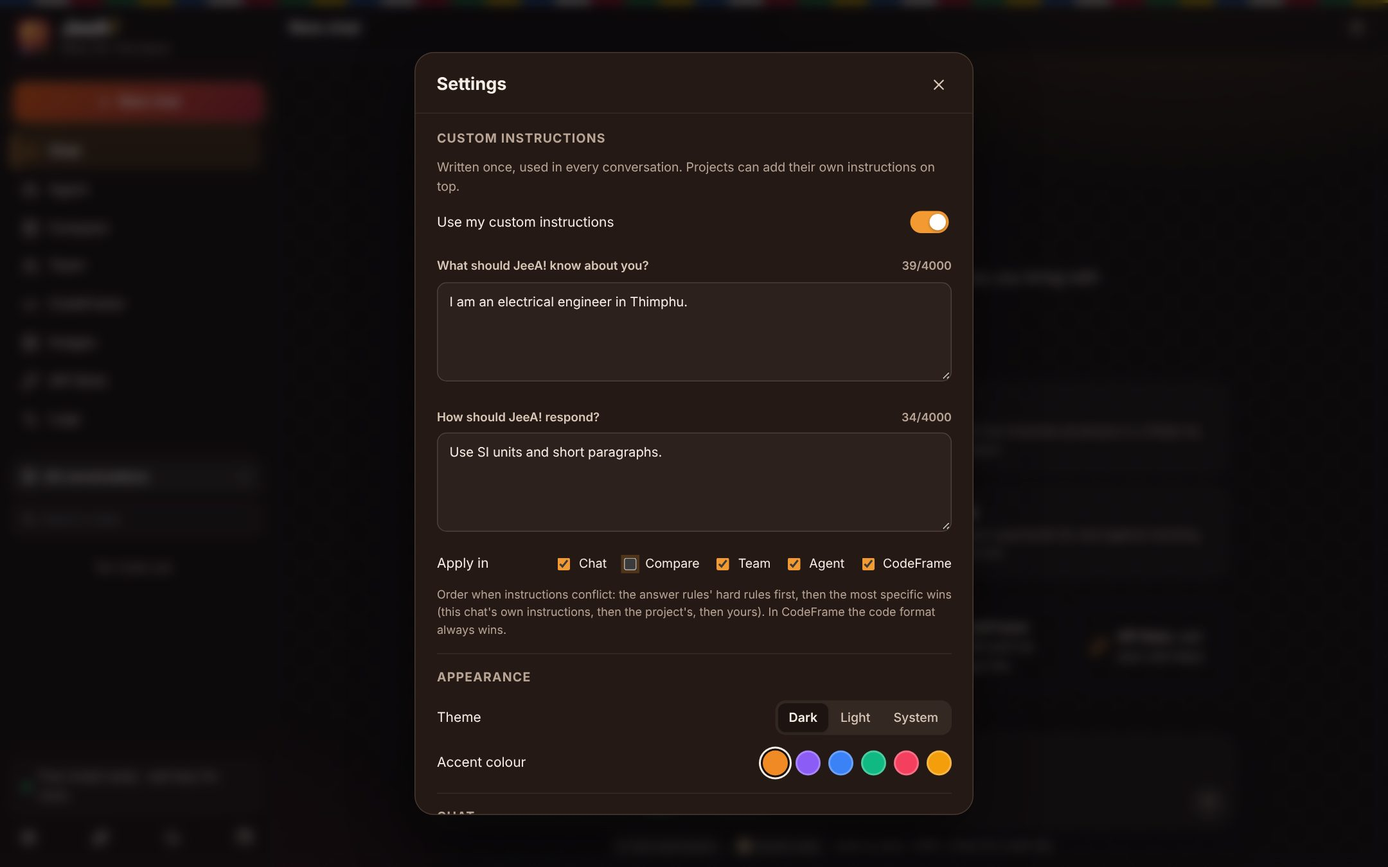
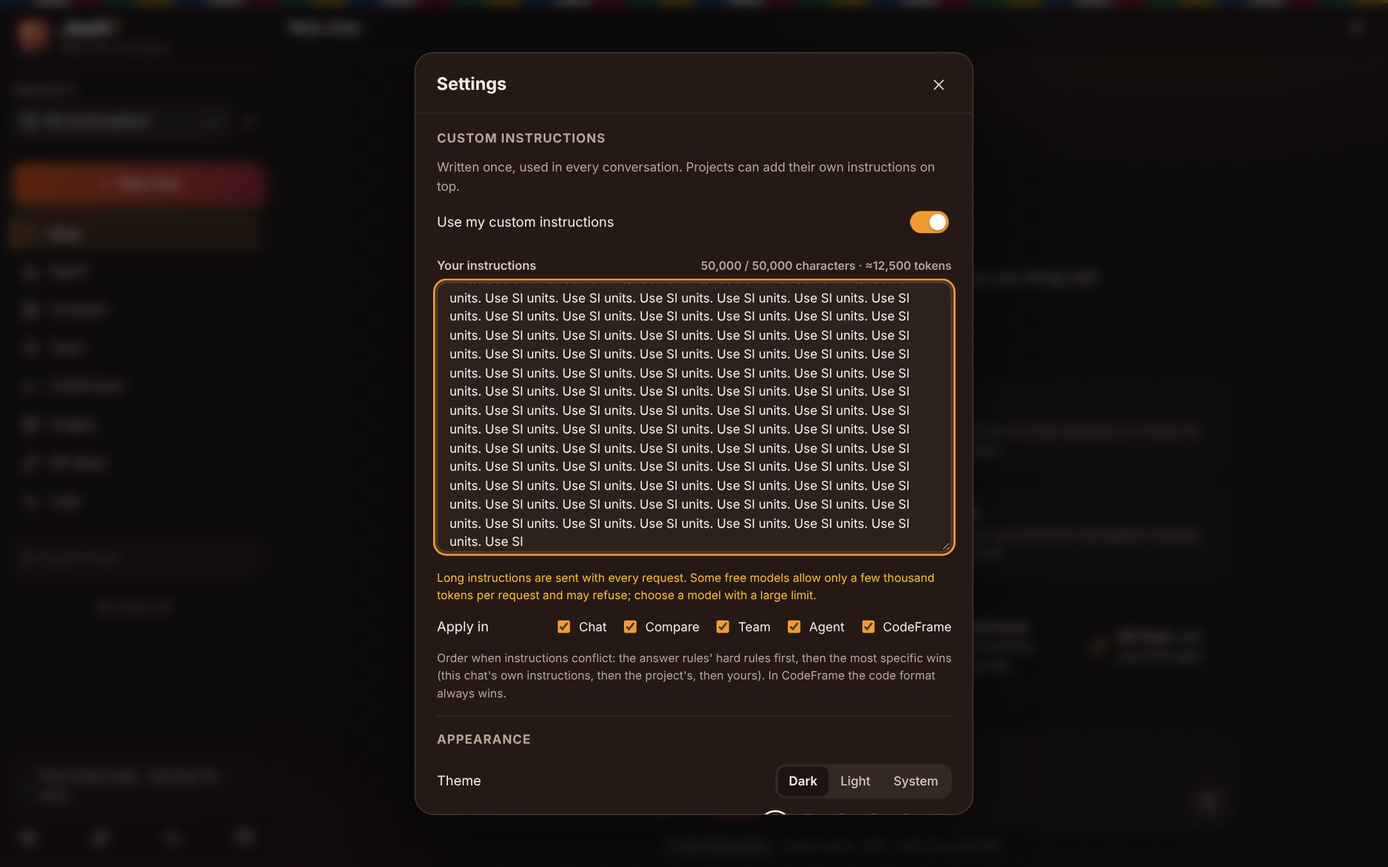
One 50,000-character instructions box, answer standard, projects on top (v1.8.0)
- Custom instructions: a single box of up to 50,000 characters with a
  live character/token count; the "about you" box removed and its text
  merged (settings migration v4).
- JeeA! answer standard (src/lib/standard.ts), always sent in Chat,
  Compare, Team and Agent: length fits the question; trusted, recent
  sources only (research, institutions, news organisations, leading
  manufacturers; never Wikipedia, blogs, forums, social media); two or
  more sources per key claim; facts and figures; APA 7th with references.
- Company sources: new "maker" type; newsrooms of NVIDIA, Microsoft,
  Google, Apple, Samsung, Siemens, Toyota, OpenAI, Huawei, GE Vernova
  (verified on GitHub; Intel, IBM, ABB, Schneider removed). Gateway
  trusted sites add ISO, IEC and manufacturers.
- Up to 12 results per question (was 8).
- Projects switcher moved to the top of the left panel, with a New
  project button, visible on every page.
- Tests: 57 unit tests; browser suites updated.

Claude-Session: https://claude.ai/code/session_016D1ggWttxCYZ9gRb9TY1M8

diff --git a/src/lib/web.ts b/src/lib/web.ts
@@ -16,7 +16,7 @@
 export type WebMode = 'auto' | 'on' | 'off';
 
 /** What a result is, so the model can judge it. */
-export type SourceKind = 'scholarly' | 'official' | 'news' | 'web';
+export type SourceKind = 'scholarly' | 'official' | 'news' | 'maker' | 'web';
 
 export interface WebSource {
   n: number;
@@ -156,7 +156,7 @@ export async function gatewaySearch(gateway: string, q: string, news: boolean, f
     const data = (await getJson(fetchFn, `${gateway.replace(/\/+$/, '')}/v1/search`, signal, {
       method: 'POST',
       headers: { 'content-type': 'application/json' },
-      body: JSON.stringify({ query: q, max_results: 5, topic: news ? 'news' : 'general' }),
+      body: JSON.stringify({ query: q, max_results: 8, topic: news ? 'news' : 'general' }),
     })) as { results?: { title?: string; url?: string; content?: string; published_date?: string }[] };
     return (data.results ?? [])
       .filter((r) => r.url && r.content && isTrustedUrl(r.url))
@@ -206,7 +206,7 @@ interface OAWork {
 }
 
 /** Recent scholarly works (with abstracts) from OpenAlex. Last 2 years; widened to 5 when fewer than 2 are found. */
-export async function openAlexSearch(q: string, fetchFn: FetchFn, signal: AbortSignal, now = new Date(), limit = 4): Promise<WebSource[]> {
+export async function openAlexSearch(q: string, fetchFn: FetchFn, signal: AbortSignal, now = new Date(), limit = 5): Promise<WebSource[]> {
   const fields = 'id,doi,display_name,publication_date,type,primary_location,authorships,abstract_inverted_index';
   const get = async (years: number) => {
     const from = new Date(now.getTime());
@@ -330,7 +330,7 @@ export async function webSearch(opts: {
       all.push(s);
     }
   }
-  const sources = all.slice(0, opts.max ?? 8).map((s, i) => ({ ...s, n: i + 1 }));
+  const sources = all.slice(0, opts.max ?? 12).map((s, i) => ({ ...s, n: i + 1 }));
   return { sources, errors };
 }
 
@@ -361,6 +361,7 @@ const KIND_LABEL: Record<SourceKind, string> = {
   scholarly: 'scholarly work',
   official: 'official publication (government or intergovernmental body)',
   news: 'news organisation report (use for recent events; weaker than official or scholarly sources)',
+  maker: "manufacturer or company document (reliable for its own products, specifications and data; treat claims that praise its own products as the company's claim)",
   web: 'web page from a trusted domain',
 };
 
@@ -389,8 +390,8 @@ export function webPrompt(query: string, sources: WebSource[], now = new Date(),
     return `${head}\nWeb search results: a search of trusted sources for "${query}" found nothing useful (or could not be reached). Do not present outside facts as checked: say that no trusted source was found, and mark anything from your own knowledge as unverified and possibly out of date.`;
   }
   const cite = opts.rules
-    ? 'Cite in APA 7th style: copy each result\'s "APA 7th in-text" citation exactly and write it in the format the answer rules require (a coloured link to the result\'s URL, then a ↗ link). End with a reference list that copies the "APA 7th reference" of every result you cited, and only those, in alphabetical order. Never cite a bare number such as [1].'
-    : 'Cite in APA 7th style: after each sentence that uses a result, copy its "APA 7th in-text" citation exactly, e.g. (United Nations, 2026a). End with a "References" list that copies the "APA 7th reference" of every result you cited, and only those, in alphabetical order. Never cite a bare number such as [1].';
+    ? 'Cite in APA 7th style: copy each result\'s "APA 7th in-text" citation exactly and write it in the format the answer rules require (a coloured link to the result\'s URL, then a ↗ link). Back each key claim with two, three, four or more of these results when they agree, cited together. End with a reference list that copies the "APA 7th reference" of every result you cited, and only those, in alphabetical order. Never cite a bare number such as [1].'
+    : 'Cite in APA 7th style: after each sentence that uses a result, copy its "APA 7th in-text" citation exactly. Back each key claim with two, three, four or more of these results when they agree, cited together in one parenthesis, e.g. (United Nations, 2026a; Lee & Patel, 2026). End with a "References" list that copies the "APA 7th reference" of every result you cited, and only those, in alphabetical order. Never cite a bare number such as [1].';
   return [
     head,
     `Web search results for "${query}", fetched just now (${sources.length}):`,

diff --git a/src/components/Modals.tsx b/src/components/Modals.tsx
@@ -1,7 +1,7 @@
 import { useRef, useState, type ReactNode } from 'react';
 import { CheckCircle2, Info, Trophy, X, XCircle } from 'lucide-react';
 import { useUI } from '../lib/ui';
-import { useSettings, type Accent, type Theme, type Area, modelKey, allProviders, gatewayInfo } from '../lib/settings';
+import { useSettings, type Accent, type Theme, type Area, CUSTOM_MAX, modelKey, allProviders, gatewayInfo } from '../lib/settings';
 import type { WebMode } from '../lib/web';
 import { WEB_HELP } from './Web';
 import { DEFAULT_RULES, roughTokens, rulesText } from '../lib/rules';
@@ -167,13 +167,13 @@ function SettingsModal({ onClose }: { onClose: () => void }) {
 }
 
 const AREAS: [Area, string][] = [['chat', 'Chat'], ['compare', 'Compare'], ['team', 'Team'], ['agent', 'Agent'], ['code', 'CodeFrame']];
-const CUSTOM_MAX = 4000;
 
 /** The user's own custom instructions, for every conversation in the chosen areas. */
 function CustomSection() {
   const c = useSettings((s) => s.custom);
   const set = useSettings((s) => s.set);
   const patch = (p: Partial<typeof c>) => set({ custom: { ...c, ...p } });
+  const tokens = Math.ceil((c.text ?? '').length / 4);
   return (
     <section className="set-section custom-section" id="custom-instructions">
       <h3>Custom instructions</h3>
@@ -183,13 +183,23 @@ function CustomSection() {
         <input type="checkbox" className="switch" checked={c.enabled} onChange={(e) => patch({ enabled: e.target.checked })} aria-label="Use my custom instructions" />
       </label>
       <label className="field">
-        <span className="field-label">What should JeeA! know about you? <span className="muted xs">{c.about.length}/{CUSTOM_MAX}</span></span>
-        <textarea rows={4} maxLength={CUSTOM_MAX} value={c.about} placeholder="e.g. I am an electrical engineer in Thimphu, Bhutan. I study for a master's in renewable energy. I use SI units." onChange={(e) => patch({ about: e.target.value })} aria-label="What should JeeA! know about you" />
+        <span className="field-label">
+          Your instructions
+          <span className="muted xs">{(c.text ?? '').length.toLocaleString()} / {CUSTOM_MAX.toLocaleString()} characters · ≈{tokens.toLocaleString()} tokens</span>
+        </span>
+        <textarea
+          className="custom-text"
+          rows={12}
+          maxLength={CUSTOM_MAX}
+          value={c.text ?? ''}
+          placeholder="e.g. Plain English. Start with the answer. Use SI units. Show formulas with a worked example. Cite sources in APA 7th."
+          onChange={(e) => patch({ text: e.target.value })}
+          aria-label="Your custom instructions"
+        />
       </label>
-      <label className="field">
-        <span className="field-label">How should JeeA! respond? <span className="muted xs">{c.style.length}/{CUSTOM_MAX}</span></span>
-        <textarea rows={4} maxLength={CUSTOM_MAX} value={c.style} placeholder="e.g. Plain English. Start with the answer. Show formulas with a worked example. Keep answers under 400 words unless I ask for more." onChange={(e) => patch({ style: e.target.value })} aria-label="How should JeeA! respond" />
-      </label>
+      {tokens > 6000 && (
+        <p className="muted xs warn-text">Long instructions are sent with every request. Some free models allow only a few thousand tokens per request and may refuse; choose a model with a large limit.</p>
+      )}
       <div className="set-row wrap">
         <span>Apply in</span>
         <div className="area-checks">

diff --git a/tests/instructions.test.ts b/tests/instructions.test.ts
@@ -3,13 +3,12 @@ import { test } from 'node:test';
 import assert from 'node:assert/strict';
 import { customPrompt, chunkFiles, rankChunks, knowledgeBlock, projectPrompt, priorityNote, tokens } from '../src/lib/instructions.ts';
 
-test('custom instructions: empty gives nothing; fields become labelled sections', () => {
-  assert.equal(customPrompt({ about: '  ', style: '' }), '');
-  const p = customPrompt({ about: 'I am an engineer in Thimphu.', style: 'Plain English, short answers.' });
-  assert.match(p, /^# The user's custom instructions/);
-  assert.match(p, /## What the user wants you to know about them\nI am an engineer in Thimphu\./);
-  assert.match(p, /## How the user wants you to respond\nPlain English, short answers\./);
-  assert.ok(!customPrompt({ about: 'x', style: '' }).includes('How the user wants'));
+test('custom instructions: one box; empty gives nothing; 50,000 characters kept whole', () => {
+  assert.equal(customPrompt('   '), '');
+  const p = customPrompt('Plain English. Use SI units.');
+  assert.equal(p, "# The user's custom instructions\nThe user wrote these for every conversation. Follow them unless a more specific instruction below says otherwise.\n\nPlain English. Use SI units.");
+  const long = 'x'.repeat(50_000);
+  assert.ok(customPrompt(long).endsWith(long));
 });
 
 test('priority: hard rules first, then the most specific instruction wins', () => {
@@ -75,4 +74,23 @@ test('project prompt: instructions, file note and citation rule', () => {
   assert.match(p, /Cite them by file name and page or section, for example \(report\.pdf, p\. 3\)/);
   const noFiles = projectPrompt({ name: 'Empty', instructions: '' }, knowledgeBlock([], '', 10), 0);
   assert.ok(!noFiles.includes('Project files'));
+});
+
+import { ANSWER_STANDARD } from '../src/lib/standard.ts';
+test('answer standard: length by context, trusted latest sources, several per claim, APA 7th, figures', () => {
+  for (const phrase of [
+    'Length fits the question',
+    'one to three sentences',
+    'full answer with sections',
+    'Never use or cite Wikipedia, personal blogs, forums, social media or unverified sites',
+    'established news organisations',
+    'leading manufacturers and companies',
+    'Prefer the newest results',
+    'two, three, four or more independent results',
+    'Give numbers with their units, dates, places and groups',
+    'APA 7th',
+    '"References" list',
+    '(unverified)',
+  ]) assert.ok(ANSWER_STANDARD.includes(phrase), phrase);
+  assert.ok(ANSWER_STANDARD.length < 3000, 'kept short: it goes with every request');
 });

diff --git a/src/lib/standard.ts b/src/lib/standard.ts
@@ -1,0 +1,13 @@
+// JeeA!'s built-in answer standard: sent to every model in Chat, Compare,
+// Team and Agent, whether or not the site owner's answer rules are on.
+// (CodeFrame has its own code-output format.) No imports: unit-tested in Node.
+
+export const ANSWER_STANDARD = `# JeeA! answer standard (applies to every answer)
+1. Length fits the question. A greeting or a quick fact gets one to three sentences. An explanation gets a few short paragraphs. A research, comparison, decision or how-to question gets a full answer with sections. Never pad, and never cut evidence the answer needs.
+2. Sources. Base every factual claim on the numbered search results JeeA! gives you, and only on trusted, academically accepted types: peer-reviewed research and journal papers; official and institutional publications (governments, the UN and other international bodies, universities, research institutes, standards bodies); established news organisations; and documents from leading manufacturers and companies about their own products, specifications and data. Never use or cite Wikipedia, personal blogs, forums, social media or unverified sites, and never cite a source from memory.
+3. Latest first. Prefer the newest results, give the date of every figure and event, and say when the best source is more than two years old.
+4. Several sources per claim. Support each key claim with two, three, four or more independent results when they exist, cited together in one parenthesis, for example (World Health Organization, 2026; Lee & Patel, 2026). Say plainly when only one source supports a claim, and when sources disagree.
+5. Facts and figures. Give numbers with their units, dates, places and groups, taken from the results, and say what each number means. Never invent a number, date, name, quotation or source.
+6. APA 7th edition. Cite in the text with the "APA 7th in-text" citation given for each result. End with a "References" list in APA 7th format containing every cited result, and only those, in alphabetical order.
+7. If there are no search results, or none answer the question, say so first, then answer from your own knowledge and mark those statements "(unverified)".
+8. Small talk, such as greetings or thanks, needs no sources.`;

diff --git a/src/lib/settings.ts b/src/lib/settings.ts
@@ -50,14 +50,14 @@ interface SettingsActions {
 export type Area = 'chat' | 'compare' | 'team' | 'agent' | 'code';
 export interface CustomInstructions {
   enabled: boolean;
-  /** What JeeA! should know about the user (role, field, level, place). */
-  about: string;
-  /** How the user wants answers (style, length, format). */
-  style: string;
+  /** The user's instructions, one box (up to CUSTOM_MAX characters). */
+  text: string;
   /** Where they apply. */
   areas: Record<Area, boolean>;
 }
-export const DEFAULT_CUSTOM: CustomInstructions = { enabled: true, about: '', style: '', areas: { chat: true, compare: true, team: true, agent: true, code: true } };
+/** Characters allowed in custom instructions. */
+export const CUSTOM_MAX = 50_000;
+export const DEFAULT_CUSTOM: CustomInstructions = { enabled: true, text: '', areas: { chat: true, compare: true, team: true, agent: true, code: true } };
 
 export const DEFAULT_MODEL: ModelRef = { providerId: KEYLESS_ID, model: 'openai' };
 
@@ -158,13 +158,20 @@ export const useSettings = create<Settings & SettingsActions>()(
     }),
     {
       name: 'jeea.settings',
-      version: 3,
+      version: 4,
       // v2: the Bhutan-inspired "druk" palette replaces violet as the default look.
       // v3: web search runs for every question (the old default was "auto").
+      // v4: custom instructions in one box.
       migrate: (persisted, version) => {
         const st = (persisted ?? {}) as Partial<Settings>;
         if (version < 2 && (!st.accent || st.accent === 'violet')) st.accent = 'druk';
         if (version < 3 && (!st.webMode || st.webMode === 'auto')) st.webMode = 'on';
+        // v4: custom instructions became one box; keep any text from the old two boxes.
+        if (version < 4 && st.custom) {
+          const old = st.custom as Partial<CustomInstructions> & { about?: string; style?: string };
+          const text = old.text ?? [old.about, old.style].map((x) => (x ?? '').trim()).filter(Boolean).join('\n\n');
+          st.custom = { enabled: old.enabled !== false, text, areas: { ...DEFAULT_CUSTOM.areas, ...(old.areas ?? {}) } };
+        }
         return st as Settings & SettingsActions;
       },
       storage,

diff --git a/src/lib/news.ts b/src/lib/news.ts
@@ -2,7 +2,7 @@
 // .github/workflows/news.yml). Pure functions plus a cached fetch.
 import type { WebSource } from './web';
 
-export type NewsType = 'intergovernmental' | 'government' | 'scholarly' | 'news';
+export type NewsType = 'intergovernmental' | 'government' | 'scholarly' | 'news' | 'maker';
 
 /** One item, with short keys to keep the file small. */
 export interface NewsItem {
@@ -53,7 +53,7 @@ export function topicWords(query: string): string[] {
   );
 }
 
-const WEIGHT: Record<NewsType, number> = { intergovernmental: 1.3, government: 1.25, scholarly: 1.2, news: 1 };
+const WEIGHT: Record<NewsType, number> = { intergovernmental: 1.3, government: 1.25, scholarly: 1.2, maker: 1.05, news: 1 };
 
 /**
  * Best items for a question. With topic words: items whose title or summary
@@ -116,7 +116,7 @@ function toSource(it: NewsItem): WebSource {
       return it.o;
     }
   })();
-  const kind = it.k === 'news' ? 'news' : it.k === 'scholarly' ? 'scholarly' : 'official';
+  const kind = it.k === 'news' ? 'news' : it.k === 'scholarly' ? 'scholarly' : it.k === 'maker' ? 'maker' : 'official';
   return {
     n: 0,
     title: it.t,
@@ -125,11 +125,11 @@ function toSource(it: NewsItem): WebSource {
     site: it.n ?? it.o ?? host,
     date: it.d,
     kind,
-    part: kind === 'scholarly' ? "Summary from the journal's feed" : "Summary from the organisation's feed",
+    part: kind === 'scholarly' ? "Summary from the journal's feed" : kind === 'maker' ? "Summary from the company's newsroom feed" : "Summary from the organisation's feed",
     authors: it.a?.length ? it.a : undefined,
     org: it.o,
     venue: kind === 'scholarly' ? it.o : it.n ?? it.o,
-    workType: it.k === 'intergovernmental' ? 'intergovernmental body' : it.k === 'government' ? 'government' : kind === 'scholarly' ? 'journal article' : 'news report',
+    workType: it.k === 'intergovernmental' ? 'intergovernmental body' : it.k === 'government' ? 'government' : kind === 'scholarly' ? 'journal article' : kind === 'maker' ? 'company newsroom' : 'news report',
   };
 }
 

diff --git a/src/components/Projects.tsx b/src/components/Projects.tsx
@@ -18,6 +18,8 @@ export function ProjectBar() {
   const active = projects.find((p) => p.id === activeId);
   const count = (id: string) => Object.values(sessions).filter((s) => s.projectId === id).length;
   return (
+    <div className="project-block">
+      <div className="project-label">Projects</div>
     <div className="project-bar">
       <button ref={ref} className={`project-switch${active ? ' in-project' : ''}`} onClick={() => setOpen((o) => !o)} aria-label="Choose project" title="Projects keep related chats together, with shared instructions and files">
         {active ? <FolderOpen size={15} /> : <Layers size={15} />}
@@ -29,6 +31,9 @@ export function ProjectBar() {
           <Settings2 size={14} />
         </button>
       )}
+      <button className="icon-btn xs" title="New project" aria-label="New project" onClick={() => create()}>
+        <Plus size={15} />
+      </button>
       <Popover anchor={ref} open={open} onClose={() => setOpen(false)} width={270}>
         <div className="project-menu" role="menu">
           <button role="menuitem" className={`pm-item${!active ? ' on' : ''}`} onClick={() => { setActive(null); setOpen(false); }}>
@@ -45,6 +50,7 @@ export function ProjectBar() {
           </button>
         </div>
       </Popover>
+    </div>
     </div>
   );
 }
@@ -203,7 +209,7 @@ export function ContextBadges({ area, projectId }: { area: import('../lib/settin
   const { projects, activeId, edit } = useProjects();
   const pid = projectId === undefined ? activeId : projectId;
   const p = projects.find((x) => x.id === pid);
-  const customOn = custom?.enabled && custom.areas?.[area] !== false && !!(custom.about.trim() || custom.style.trim());
+  const customOn = custom?.enabled && custom.areas?.[area] !== false && !!custom.text?.trim();
   if (!p && !customOn && !rulesOn) return null;
   return (
     <span className="ctx-badges">

diff --git a/src/lib/changelog.ts b/src/lib/changelog.ts
@@ -1,5 +1,5 @@
 /** In-app release log ("What's new"). Mirrors CHANGELOG.md. */
-export const APP_VERSION = '1.7.0';
+export const APP_VERSION = '1.8.0';
 
 export interface Release {
   version: string;
@@ -9,6 +9,18 @@ export interface Release {
 }
 
 export const CHANGELOG: Release[] = [
+  {
+    version: '1.8.0',
+    date: '2026-11-24',
+    title: 'One big instructions box, a stricter answer standard, projects on top',
+    items: [
+      { tag: 'improved', feature: 'Custom instructions', text: 'Now one box that holds up to 50,000 characters, with a live character and token count. Text from the old two boxes was kept and joined.' },
+      { tag: 'new', feature: 'Answer standard', text: 'Every model in Chat, Compare, Team and Agent now follows JeeA!\'s answer standard: length that fits the question (short, medium or long), only trusted and recent sources (research, institutions, news organisations, leading manufacturers; never Wikipedia, blogs or unverified sites), two or more sources per key claim, facts and figures with dates and units, and APA 7th citations with a reference list.' },
+      { tag: 'new', feature: 'Company sources', text: 'The hourly trusted-news job now also reads the newsrooms of NVIDIA, Microsoft, Google, Apple, Samsung, Siemens, Toyota, OpenAI, Huawei and GE Vernova (578 items from 37 sources in the first run). The gateway\'s trusted-site search adds standards bodies and leading manufacturers.' },
+      { tag: 'improved', feature: 'More sources', text: 'Each search now gives models up to 12 results (was 8), so claims can be backed by several sources.' },
+      { tag: 'improved', feature: 'Projects', text: 'The project switcher, with New project and settings buttons, is now at the top of the left panel and visible on every page.' },
+    ],
+  },
   {
     version: '1.7.0',
     date: '2026-11-24',

diff --git a/proxy/jeea-gateway.js b/proxy/jeea-gateway.js
@@ -182,6 +182,9 @@ const TRUSTED_DOMAINS = [
   'nature.com', 'science.org', 'thelancet.com', 'nejm.org', 'bmj.com', 'pnas.org', 'cell.com', 'plos.org', 'springer.com', 'sciencedirect.com',
   'wiley.com', 'tandfonline.com', 'sagepub.com', 'oup.com', 'cambridge.org', 'ieee.org', 'acm.org', 'arxiv.org', 'doi.org',
   'bbc.co.uk', 'bbc.com', 'npr.org', 'dw.com', 'aljazeera.com', 'france24.com', 'theguardian.com', 'cbc.ca', 'apnews.com', 'reuters.com', 'bbs.bt', 'kuenselonline.com',
+  // Standards bodies and leading manufacturers (their own products, specifications and data).
+  'iso.org', 'iec.ch', 'siemens.com', 'siemens-energy.com', 'abb.com', 'se.com', 'gevernova.com', 'hitachienergy.com', 'sma.de', 'huawei.com', 'bosch.com',
+  'tesla.com', 'toyota-global.com', 'global.toyota', 'samsung.com', 'apple.com', 'microsoft.com', 'blog.google', 'nvidia.com', 'intel.com', 'amd.com', 'ibm.com', 'cisco.com', 'openai.com', 'anthropic.com',
 ];
 /** Government, university and intergovernmental addresses are trusted too. */
 const TRUSTED_SUFFIX = /(\.gov|\.gov\.[a-z]{2}|\.edu|\.edu\.[a-z]{2}|\.ac\.[a-z]{2}|\.int|\.mil)$/i;

diff --git a/src/lib/agent.ts b/src/lib/agent.ts
@@ -12,6 +12,7 @@ import { isAbort, uid } from './utils';
 import { prepareWeb, joinSystem } from './webrun';
 import { rulesText } from './rules';
 import { personalContext } from './context';
+import { ANSWER_STANDARD } from './standard';
 import { tooLongHint } from './reply';
 
 /**
@@ -75,7 +76,7 @@ export async function runAgent(sid: string, asstId: string) {
   if (w.aborted) return;
   const base = `${AGENT_SYSTEM}\nToday is ${new Date().toDateString()}.${toolNames.includes('ask_model') ? `\nModels you can ask with ask_model: ${delegateIds().join(', ')}.` : ''}`;
   const pc = await personalContext('agent', s0.projectId, users[users.length - 1]?.content ?? '');
-  const system = joinSystem(base, rulesText(), pc.text, w.prompt);
+  const system = joinSystem(base, ANSWER_STANDARD, rulesText(), pc.text, w.prompt);
 
   let mode: Mode = provider.kind === 'anthropic' ? 'anthropic' : provider.kind === 'puter' || provider.nativeTools === false ? 'text' : 'openai';
   if (!tools.length) mode = provider.kind === 'anthropic' ? 'anthropic' : 'text';

diff --git a/src/lib/instructions.ts b/src/lib/instructions.ts
@@ -9,21 +9,15 @@
 // As in Claude, a project's instructions apply only to chats in that project,
 // and its files are shared by every chat in it; chats do not see each other.
 
-export interface CustomText {
-  about: string;
-  style: string;
-}
-
-export function customPrompt(c: CustomText): string {
-  const about = c.about.trim();
-  const style = c.style.trim();
-  if (!about && !style) return '';
+export function customPrompt(text: string): string {
+  const t = text.trim();
+  if (!t) return '';
   return [
     "# The user's custom instructions",
     'The user wrote these for every conversation. Follow them unless a more specific instruction below says otherwise.',
-    about ? `\n## What the user wants you to know about them\n${about}` : '',
-    style ? `\n## How the user wants you to respond\n${style}` : '',
-  ].filter(Boolean).join('\n');
+    '',
+    t,
+  ].join('\n');
 }
 
 // ---------------------------------------------------------------------------

diff --git a/src/views/CompareView.tsx b/src/views/CompareView.tsx
@@ -9,6 +9,7 @@ import { streamReply } from '../lib/reply';
 import { prepareWeb, joinSystem, type WebResult } from '../lib/webrun';
 import { rulesText } from '../lib/rules';
 import { personalContext } from '../lib/context';
+import { ANSWER_STANDARD } from '../lib/standard';
 import { splitThink } from '../lib/text';
 import { fmtMs, titleFrom, uid } from '../lib/utils';
 import { TopBar, ParamsButton } from '../components/Shell';
@@ -81,7 +82,7 @@ export function CompareView() {
       jobId: `${sid}:${laneId}:${asstId}`,
       locate: (x) => (x as CompareSession).lanes.find((l) => l.id === laneId)?.messages.find((m) => m.id === asstId),
       ref: lane.model,
-      messages: toApiMessages(joinSystem(rulesText(), personal, s.system, w.prompt), history),
+      messages: toApiMessages(joinSystem(ANSWER_STANDARD, rulesText(), personal, s.system, w.prompt), history),
       params: s.params,
       feature: 'compare',
     });
